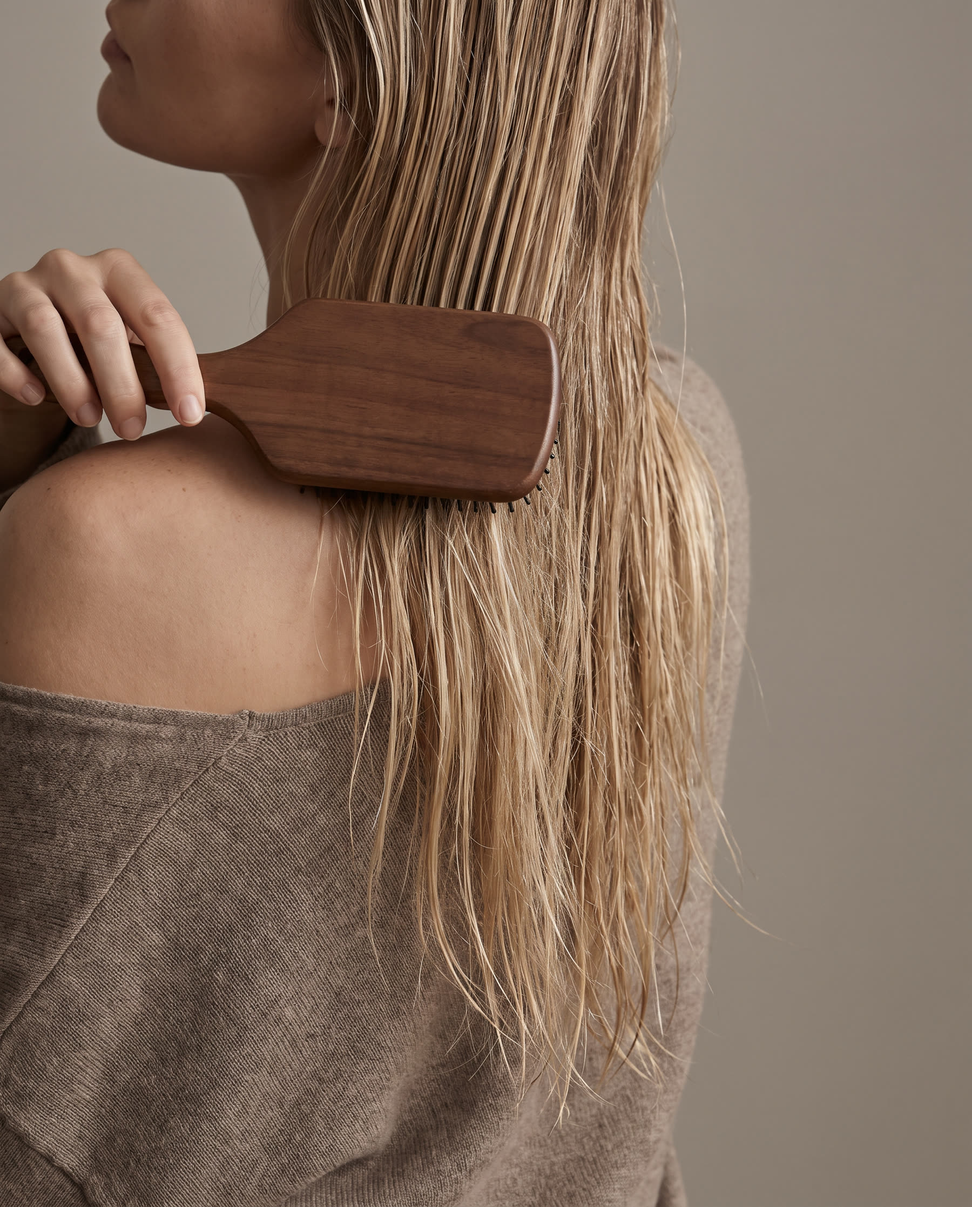
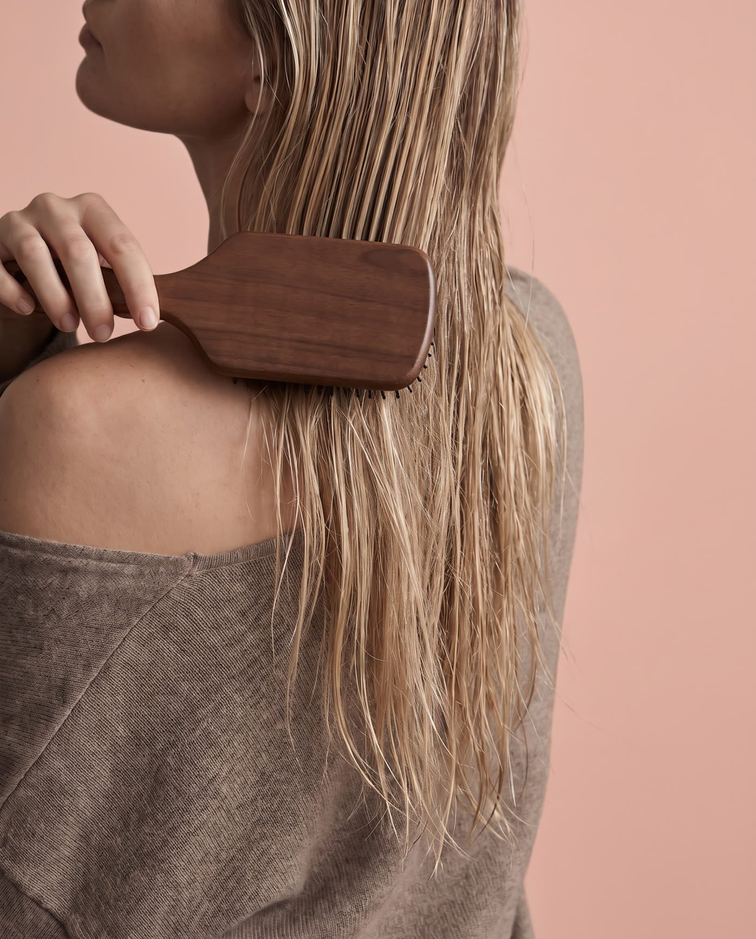
Blush brand palette; upgraded Instagram work in colour for services and blondes of the week
Claude-Session: https://claude.ai/code/session_01JNj2JdXgkuXv6nevBrFdNJ

diff --git a/index.html b/index.html
@@ -15,10 +15,10 @@
   --cream:#F4F1EA;   /* Lyon Street ground */
   --ink:#111010;
   --espresso:#3B2418;/* Lyon BOOK NOW */
-  --grey:#8B8177;    /* sampled from the brush shot backdrop */
-  --mist:#DAD8D5;    /* shampoo "products of the week" panel */
-  --swatch:#ADA9A4;  /* product tiles */
-  --tray:#D2D5D8;    /* sampled from the tray shot */
+  --grey:#DEB0A3;    /* blush, sampled from the hero backdrop */
+  --mist:#F8E4DE;    /* shampoo "products of the week" panel */
+  --swatch:#EFCBC1;  /* product tiles */
+  --tray:#F2CCC4;    /* sampled from the tray shot */
   --soft:#5E5A55;
   --wordmark:"Cormorant Garamond","Didot","Bodoni 72",Georgia,serif;
   --sans:"Archivo","Helvetica Neue",Arial,sans-serif;
@@ -45,7 +45,7 @@ p,h1,h2,h3{margin:0}
 @media (min-width:820px){.top{grid-template-columns:46% 1fr;min-height:clamp(520px,48vw,720px)}}
 .top-img{margin:0;min-height:420px;position:relative}
 .top-img img{position:absolute;inset:0;width:100%;height:100%;object-fit:cover;object-position:30% 22%}
-@media (min-width:820px){.top-img::after{content:"";position:absolute;inset:0 0 0 auto;width:28%;background:linear-gradient(90deg,rgba(139,129,119,0),var(--grey))}}
+@media (min-width:820px){.top-img::after{content:"";position:absolute;inset:0 0 0 auto;width:28%;background:linear-gradient(90deg,rgba(222,176,163,0),var(--grey))}}
 .top-col{display:grid;grid-template-rows:auto 1fr;padding-right:max(28px,env(safe-area-inset-right,0px));padding-left:max(28px,4vw)}
 @media (max-width:819px){.top-col{order:-1;padding-left:max(16px,env(safe-area-inset-left,0px));padding-right:max(16px,env(safe-area-inset-right,0px))}.top{grid-template-columns:1fr}}
 .top-nav{display:flex;flex-wrap:wrap;justify-content:space-between;align-items:center;gap:10px 24px;padding-block:22px 0;font-size:.74rem;text-transform:uppercase}
@@ -87,7 +87,6 @@ p,h1,h2,h3{margin:0}
 .card figure{margin:0;aspect-ratio:190/236;overflow:hidden}
 .card figure img{width:100%;height:100%;object-fit:cover;transition:transform 1s ease}
 .card:hover figure img{transform:scale(1.04)}
-.card .mono{filter:grayscale(1) contrast(1.02) brightness(1.06)}
 .card h3{font-size:.8rem;font-weight:600;text-transform:uppercase;margin-top:12px}
 .card p{font-size:.68rem;line-height:1.3;color:var(--soft);max-width:30ch}
 .card .from{font-size:.68rem;font-weight:600;text-transform:uppercase}
@@ -111,7 +110,7 @@ p,h1,h2,h3{margin:0}
 /* menu on the tray */
 .menu{background:var(--tray);display:grid;place-items:center;padding-block:clamp(40px,6vw,80px);position:relative;overflow:hidden}
 .menu .stage{position:relative;width:min(100%,760px)}
-.menu .stage img{width:100%;height:auto;-webkit-mask-image:linear-gradient(90deg,transparent,#000 9%,#000 91%,transparent),linear-gradient(180deg,transparent,#000 9%,#000 91%,transparent);-webkit-mask-composite:source-in;mask-image:linear-gradient(90deg,transparent,#000 9%,#000 91%,transparent),linear-gradient(180deg,transparent,#000 9%,#000 91%,transparent);mask-composite:intersect}
+.menu .stage img{width:100%;height:auto;-webkit-mask-image:linear-gradient(90deg,transparent,#000 22%,#000 78%,transparent),linear-gradient(180deg,transparent,#000 22%,#000 78%,transparent);-webkit-mask-composite:source-in;mask-image:linear-gradient(90deg,transparent,#000 22%,#000 78%,transparent),linear-gradient(180deg,transparent,#000 22%,#000 78%,transparent);mask-composite:intersect}
 .menu .paper{position:absolute;left:50%;top:47%;transform:translate(-50%,-50%);width:36%;aspect-ratio:290/410;background:#F4F3F1;box-shadow:6px 10px 14px -6px rgba(40,44,50,.35);padding:9% 7% 6%;display:grid;grid-template-rows:auto 1fr auto;gap:7%;color:#111;container-type:inline-size}
 .menu h2{font-weight:600;font-size:11.5cqw;letter-spacing:-.01em;text-transform:uppercase;line-height:1}
 .menu dl{display:grid;grid-template-columns:1fr auto;align-content:center;gap:5.5cqw 4cqw;margin:0;font-size:5.4cqw;text-transform:uppercase}
@@ -171,28 +170,28 @@ footer a{text-underline-offset:3px}
     <div class="cards">
       <a class="card" href="#menu">
         <span class="n">01</span>
-        <figure><img class="mono" src="img/studio.jpg" alt="Fine foils being placed" style="object-position:52% 50%"></figure>
+        <figure><img src="img/babylights.jpg" alt="Fine baby lights through a beige blonde base"></figure>
         <h3>Baby lights</h3>
         <p>Finely woven highlights for dimension and the look of fuller hair.</p>
         <span class="from">From $119</span>
       </a>
       <a class="card" href="#menu">
         <span class="n">02</span>
-        <figure><img src="img/waves.jpg" alt="Honey and champagne balayage waves"></figure>
+        <figure><img src="img/balayage.jpg" alt="Lived-in balayage waves from behind"></figure>
         <h3>Balayage</h3>
         <p>Hand-painted brightness that grows out softly. Lowest upkeep of any blonde.</p>
         <span class="from">From $140</span>
       </a>
       <a class="card" href="#menu">
         <span class="n">03</span>
-        <figure><img class="mono" src="img/wedding.jpg" alt="Bride with a low chignon" style="object-position:50% 60%"></figure>
+        <figure><img src="img/wedding.jpg" alt="Bride with a low chignon" style="object-position:50% 60%"></figure>
         <h3>Bridal</h3>
         <p>In salon or on location, from a single bride to the whole party.</p>
         <span class="from">From $120</span>
       </a>
       <a class="card" href="#menu">
         <span class="n">04</span>
-        <figure><img src="img/hero.jpg" alt="Bright blonde waves" style="object-position:38% 40%"></figure>
+        <figure><img src="img/golden.jpg" alt="Golden bright blonde waves"></figure>
         <h3>Bright blonde</h3>
         <p>Full-head lightening and a hand-finished tone, with condition protected.</p>
         <span class="from">From $220</span>
@@ -209,14 +208,14 @@ footer a{text-underline-offset:3px}
       <div class="strip">
         <div class="track" id="track">
           <a class="tile" href="https://www.instagram.com/blincblonde/" target="_blank" rel="noopener">
-            <figure><img src="img/hero.jpg" alt="Lived-in balayage" style="object-position:40% 40%"></figure>
-            <p class="small-caps">Lived-in balayage, long length, Aveda gloss</p>
-            <span class="price">From $140</span>
+            <figure><img src="img/icy.jpg" alt="Icy beige blonde with soft waves"></figure>
+            <p class="small-caps">Icy beige blonde, long layers, soft waves</p>
+            <span class="price">From $220</span>
           </a>
           <a class="tile" href="https://www.instagram.com/blincblonde/" target="_blank" rel="noopener">
-            <figure><img src="img/reel.jpg" alt="Toned blonde bob" style="object-position:55% 50%"></figure>
-            <p class="small-caps">Root retouch and toning gloss, bob length</p>
-            <span class="price">From $60</span>
+            <figure><img src="img/silver.jpg" alt="Dark root melting into silver ends"></figure>
+            <p class="small-caps">Silver melt from a natural root, textured lob</p>
+            <span class="price">Price at consultation</span>
           </a>
           <a class="tile" href="https://www.instagram.com/blincblonde/" target="_blank" rel="noopener">
             <figure><img src="img/wedding.jpg" alt="Bridal chignon" style="object-position:50% 60%"></figure>
@@ -224,9 +223,9 @@ footer a{text-underline-offset:3px}
             <span class="price">From $155</span>
           </a>
           <a class="tile" href="https://www.instagram.com/blincblonde/" target="_blank" rel="noopener">
-            <figure><img src="img/studio.jpg" alt="Fine foils in progress" style="object-position:52% 50%"></figure>
-            <p class="small-caps">Baby lights and fine foils, full head</p>
-            <span class="price">From $119</span>
+            <figure><img src="img/bright.jpg" alt="Bright creamy blonde with a money piece"></figure>
+            <p class="small-caps">Bright blonde with a money piece, blow-dry waves</p>
+            <span class="price">From $220</span>
           </a>
         </div>
       </div>
